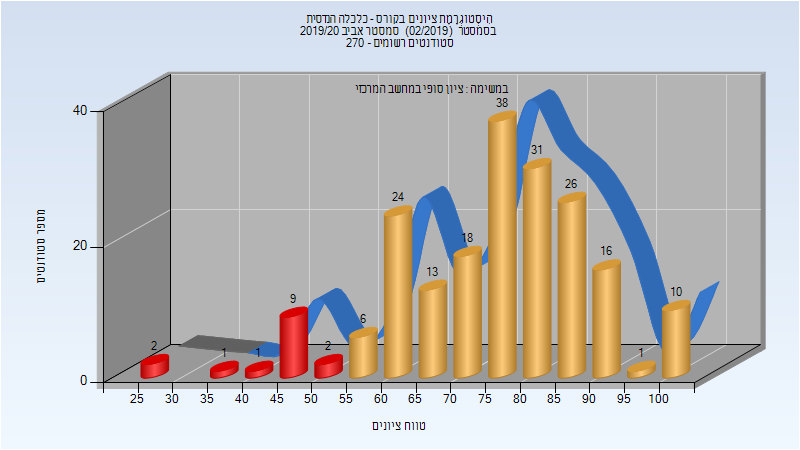
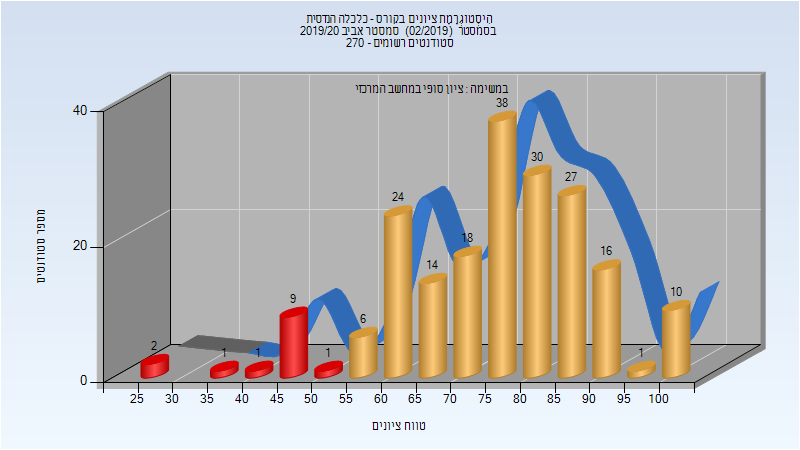
Deploy michael-maltsev/technion-histograms to github.com/michael-maltsev/technion-histograms.git:gh-pages

diff --git a/014603/index.html b/014603/index.html
@@ -546,11 +546,11 @@
 <tbody>
 <tr>
 <td>198</td>
-<td>183/15</td>
-<td>92</td>
+<td>184/14</td>
+<td>93</td>
 <td>27</td>
 <td>100</td>
-<td>76.172</td>
+<td>76.283</td>
 <td>78</td>
 </tr>
 </tbody>

diff --git a/014603/README.md b/014603/README.md
@@ -170,5 +170,5 @@
 
 | סטודנטים | עברו/נכשלו | אחוז עוברים | ציון מינימלי | ציון מקסימלי | ממוצע | חציון |
 | ---- | ---- | ---- | ---- | ---- | ---- | ---- |
-| 198 | 183/15 | 92 | 27 | 100 | 76.172 | 78 |
+| 198 | 184/14 | 93 | 27 | 100 | 76.283 | 78 |
 
